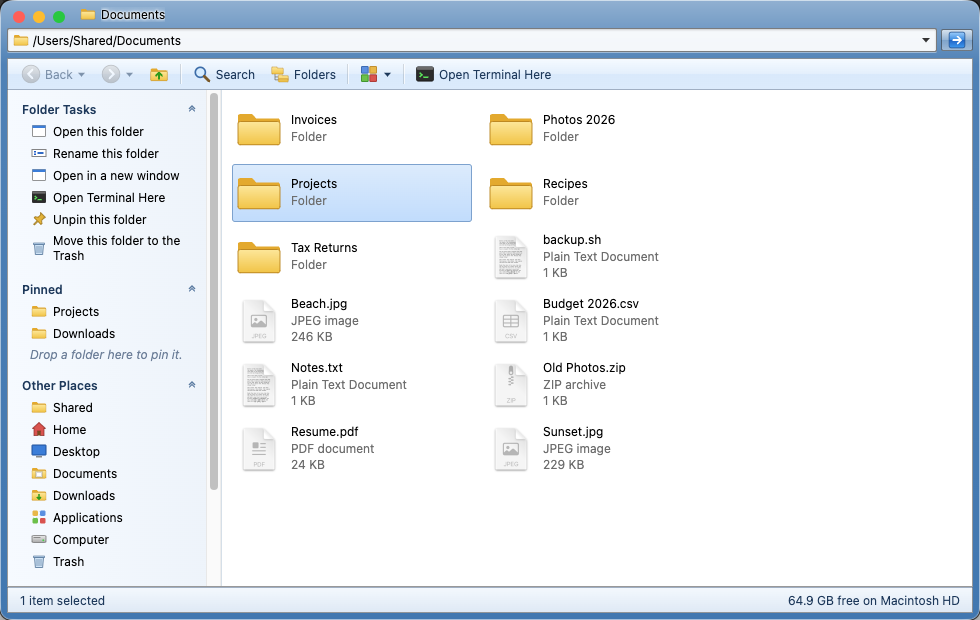
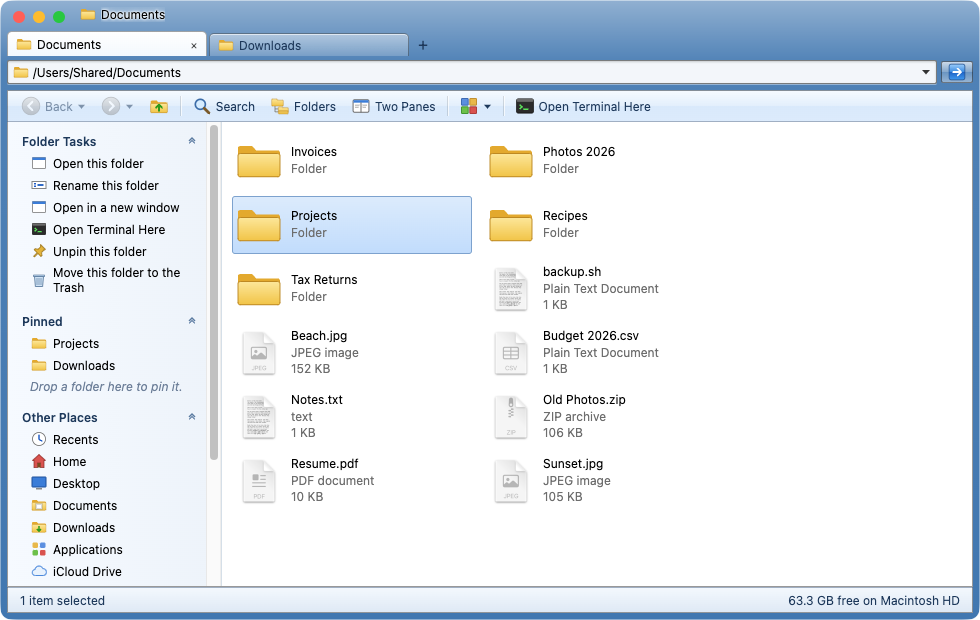
New README pictures and the Homebrew install
The README pictures show tabs, two panes, the Trash and Properties with the new icon, and the README has the Homebrew install, upgrade and uninstall lines. package.json's repository url is in the form npm expects.

diff --git a/README.md b/README.md
@@ -11,6 +11,13 @@ npm install -g filedrawer
 filedrawer
 ```
 
+Or with Homebrew.
+
+```
+brew install pratherbytecraft/tap/filedrawer
+filedrawer
+```
+
 `filedrawer ~/Documents` opens a window at that folder.
 
 Filedrawer needs Node 18 or newer and Apple's Command Line Tools, which the install uses to build a small helper for file icons. If they're missing, the install says so; run `xcode-select --install`, then `npm rebuild -g filedrawer`.
@@ -23,7 +30,7 @@ The install also adds Filedrawer to the Applications folder in your home folder,
 npm uninstall -g filedrawer
 ```
 
-Then move Filedrawer from the Applications folder in your home folder to the Trash.
+Or `brew uninstall filedrawer` if you installed it with Homebrew. Then move Filedrawer from the Applications folder in your home folder to the Trash.
 
 ## What it does
 
@@ -31,19 +38,27 @@ Each window has tabs, in a strip under the title bar. Command T opens a new tab,
 
 Two Panes on the toolbar, or Option Command P, splits a tab into two sides, each with its own folder. Click a side or press Tab to work in it. Drag items from one side to the other, or use Copy to Other Side (F5) and Move to Other Side (F6).
 
+![Two panes, Documents and Downloads](https://raw.githubusercontent.com/pratherbytecraft/filedrawer/main/docs/screenshots/two-panes.png)
+
 Type a path into the address bar and press Return, and it fills in folder names as you type. Back and Forward each keep a list of where you've been, and Up goes to the folder above. The arrow at the end of the address bar lists the folders above this one and your pinned folders.
 
 The left pane shows tasks for what's selected, your pinned folders, other places and the details of the selection. The Folders button swaps it for a folder tree. Drop a folder on Pinned to pin it, or right click a folder and pick Pin to Pinned.
 
 Open Terminal Here is on the toolbar, the File menu and the right click menus, and opens the folder in Terminal or the terminal app you pick in Settings.
 
-Copy, cut and paste work with Finder both ways, and cut and paste moves files. Drag items between windows, to other apps and to Finder, and drop them on folders in the list, the tree or the pane. Rename with F2 or a slow second click on a name. Move to Trash, Undo and Redo cover renaming, new items, copies and moves. Properties shows sizes and dates and can lock or hide an item. Space shows a file in Quick Look, and Open With lists the apps that can open it.
+Copy, cut and paste work with Finder both ways, and cut and paste moves files. Drag items between windows, to other apps and to Finder, and drop them on folders in the list, the tree or the pane. Rename with F2 or a slow second click on a name. Duplicate, Make Alias and Copy Path are on the right click and the menus. Move to Trash, Undo and Redo cover renaming, new items, copies and moves. Space shows a file in Quick Look, and Open With lists the apps that can open it.
+
+Properties shows sizes, dates, where a download came from and comments, and can lock an item or hide it or its extension. It also shows the app a file opens with. Change... picks another app for every file with that extension, or for that file only.
+
+![Properties with the Opens with row](https://raw.githubusercontent.com/pratherbytecraft/filedrawer/main/docs/screenshots/properties.png)
 
 The Search button finds files by name, by a word inside them, by date or by size, in this folder, your home folder or every disk.
 
 Computer lists your disks with their size and free space, and ejects them.
 
 The Trash shows where each item came from and when it was deleted. Put Back moves items to where they were, and Delete Immediately removes them for good. Recents lists the files you opened in the last 30 days, newest first, and iCloud Drive opens here too.
+
+![The Trash with Original Location and Date Deleted](https://raw.githubusercontent.com/pratherbytecraft/filedrawer/main/docs/screenshots/trash.png)
 
 ## Themes
 
@@ -81,7 +96,7 @@ The Trash needs Full Disk Access, since macOS keeps the Trash private from other
 
 ## Updates
 
-Filedrawer checks for a newer version now and then and shows it on the General page. It never installs anything by itself. To update, run `npm install -g filedrawer` again, then quit Filedrawer and open it.
+Filedrawer checks for a newer version now and then and shows it on the General page. It never installs anything by itself. To update, run `npm install -g filedrawer` again, or `brew upgrade filedrawer`, then quit Filedrawer and open it.
 
 ## Help
 
